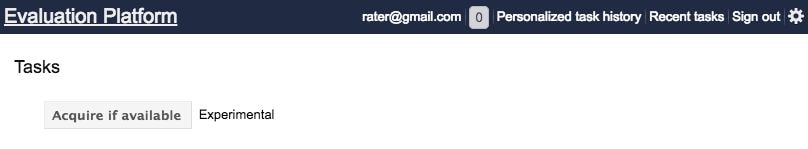
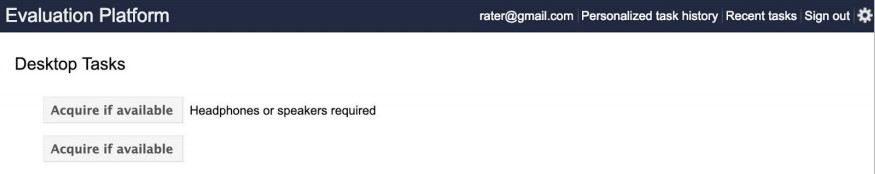
20190516 update

diff --git a/docs/needs-met-rating-guideline/17-specificity-of-queries-and-landing-pages.md b/docs/needs-met-rating-guideline/17-specificity-of-queries-and-landing-pages.md
@@ -14,26 +14,26 @@ Results for specific queries are easier to rate on the Needs Met scale because w
 
 When the query is a broad category, such as `cafes` `restaurants` `hotels` `books` `tourist attractions in paris` etc., popular and prominent examples may be considered very helpful. Please do web research to help you understand what is popular and prominent in different locations.
 
-Query and User Intent|Result Block and LP, Needs Met Rating, E-A-T Rating|Explanation
+Query and User Intent|Result Block and LP, Needs Met Rating, Page Quality Rating|Explanation
 ---|---|---
-**Query:** `credit cards`<br/><br/>**User Location:** Phoenix, Arizona<br/><br/>**User Intent:** Users are probably looking to sign up for a credit card online, or want to research credit cards before signing up.|![](../images/img655.jpg)<br/>![](../images/hm.jpg)![](../images/high+narrow.jpg)|Even though there are many options, a page for an individual company that offers different cards could be very helpful.<br/><br/>**E-A-T:** Visa is a well-known credit card company with a good reputation.<br/><br/>**Needs Met:** This LP is more specific than the query, but it would still be helpful for many or most users because Visa is a popular credit card company.^
-*(Same as above.)*|![](../images/img658.jpg)<br/>![](../images/hm.jpg)![](../images/high+narrow.jpg)|Even though there are many options, a page for an individual company that offers different cards could be very helpful.<br/><br/>**E-A-T:** Discover is a well-known company that offers services for credit cards, banking, and loans, and has a good reputation.<br/><br/>**Needs Met:** This LP is more specific than the query, but it would still be helpful for many or most users because Discover is a popular credit card company.
-*(Same as above.)*|![](../images/img661.jpg)<br/>![](../images/hm.jpg)![](../images/high.jpg)|This page offers a list of top credit cards in a variety of categories.<br/><br/>**E-A-T:** This website helps consumers make money decisions. It has a good reputation and has been recommended by CNNMoney and The New York Times.<br/><br/>**Needs Met:** This LP fits the query. It would be helpful for most users.
-*(Same as above.)*|![](../images/img664.jpg)<br/>![](../images/sm.jpg)![](../images/high.jpg)|This page describes a credit card that requires union membership.<br/><br/>**E-A-T:** This company is an expert on its own credit card, which is issued by HSBC Bank, a well-known financial services organization.<br/><br/>**Needs Met:** Since the credit card requires union membership, the page would be helpful for some users.
-**Query:** `hotels`<br/><br/>**User Location:** Jacksonville, Florida<br/><br/>**User Intent:** Users are probably planning a trip, but this query is very general and vague.|![](../images/img668.jpg)<br/>![](../images/hm.jpg)![](../images/high.jpg)|This is a popular travel aggregator website, and the hotel page on the site can help users find hotels in the U.S. Users can read reviews, compare hotels, or make a reservation.<br/><br/>**E-A-T:** Orbitz is a popular website with a good reputation.<br/><br/>**Needs Met:** This LP fits the query. It would be very helpful for most users.
-*(Same as above.)*|![](../images/img671.jpg)<br/>![](../images/hm.jpg)![](../images/high+narrow.jpg)|This is a very popular hotel chain with hotels available in the majority of the U.S. at many different price points.<br/><br/>Even though the list of possible hotel chains is long, the homepage of an individual chain that offers different prices, features, and location options could be very helpful.<br/><br/>**E-A-T:** The Marriott website gives information on Marriott hotels, a popular chain of hotels. Marriott is an expert on Marriott hotels and the information is highly authoritative.<br/><br/>**Needs Met:** This LP is more specific than the query, but it would still be helpful for many or most users because the Marriott is a popular chain of hotels.
-*(Same as above.)*|![](../images/img674.jpg)<br/>![](../images/failsm+narrow.jpg)![](../images/high+narrow.jpg)|This is the webpage of the Marriott Courtyard hotel in Emeryville, California.<br/><br/>**E-A-T:** The Marriott website gives information on Marriott hotels, a popular chain of hotels. This page is professional, well designed, and functions well. Marriott has a good reputation and is an expert on Marriott hotels, making the information on this page highly authoritative.<br/><br/>**Needs Met:** The LP is too specific for the query, but this is a well-known brand and users can navigate to other Marriott hotels from this page. Few users would find this page helpful.
+**Query:** `credit cards`<br/><br/>**User Location:** Phoenix, Arizona<br/><br/>**User Intent:** Users are probably looking to sign up for a credit card online, or want to research credit cards before signing up.|![](../images/img655.jpg)<br/>![](../images/hm.jpg)![](../images/high+narrow.jpg)|Even though there are many options, a page for an individual company that offers different cards could be very helpful.<br/><br/>**Page Quality:** Visa is a credit card company with high E-A-T that offers services for credit cards, banking, etc. and has a good reputation. **High+** to **Highest** is an appropriate rating.<br/><br/>**Needs Met:** This LP is more specific than the query, but it would still be helpful for many or most users because Visa is a popular credit card company.
+*(Same as above.)*|![](../images/img658.jpg)<br/>![](../images/hm.jpg)![](../images/high+narrow.jpg)|Even though there are many options, a page for an individual company that offers different cards could be very helpful.<br/><br/>**Page Quality:** Discover is a company with high E-A-T that offers services for credit cards, banking, etc. with a good reputation. **High+** to **Highest** is an appropriate rating.<br/><br/>**Needs Met:** This LP is more specific than the query, but it would still be helpful for many or most users because Discover is a popular credit card company.
+*(Same as above.)*|![](../images/img661.jpg)<br/>![](../images/hm.jpg)![](../images/high.jpg)|This page offers a list of top credit cards in a variety of categories.<br/><br/>**Page Quality:** This website helps consumers make money decisions. It has a good reputation, high E-A-T, and has been recommended by several major newspapers. **High** is an appropriate rating.<br/><br/>**Needs Met:** This LP fits the query. It would be helpful for most users.
+*(Same as above.)*|![](../images/img664.jpg)<br/>![](../images/sm.jpg)![](../images/high.jpg)|This page describes a credit card that requires union membership.<br/><br/>**Page Quality:** This company is an expert on its own credit card, which is issued by HSBC Bank, a financial services organization with a good reputation and high E-A-T. **High** is an appropriate rating.<br/><br/>**Needs Met:** Since the credit card requires union membership, the page would be helpful for some users.
+**Query:** `hotels`<br/><br/>**User Location:** Jacksonville, Florida<br/><br/>**User Intent:** Users are probably planning a trip, but this query is very general and vague.|![](../images/img668.jpg)<br/>![](../images/hm.jpg)![](../images/high.jpg)|This is a popular travel aggregator website, and the hotel page on the site can help users find hotels in the U.S. Users can read reviews, compare hotels, or make a reservation.<br/><br/>**Page Quality:** Orbitz is a popular website with high E-A-T and a good reputation. **High** is an appropriate rating.<br/><br/>**Needs Met:** This LP fits the query. It would be very helpful for most users.
+*(Same as above.)*|![](../images/img671.jpg)<br/>![](../images/hm.jpg)![](../images/high+narrow.jpg)|This is a very popular hotel chain with hotels available in the majority of the U.S. at many different price points.<br/><br/>Even though the list of possible hotel chains is long, the homepage of an individual chain that offers different prices, features, and location options could be very helpful.<br/><br/>**Page Quality:** The Marriott website gives information on Marriott hotels, a popular chain of hotels. Marriott has a good reputation and is an expert on Marriott hotels, making the information on this page highly authoritative. **High+** to **Highest** is an appropriate rating.<br/><br/>**Needs Met:** This LP is more specific than the query, but it would still be helpful for many or most users because the Marriott is a popular chain of hotels.
+*(Same as above.)*|![](../images/img674.jpg)<br/>![](../images/failsm+narrow.jpg)![](../images/high+narrow.jpg)|This is the webpage of the Marriott Courtyard hotel in Emeryville, California.<br/><br/>**Page Quality:** The Marriott website gives information on Marriott hotels, a popular chain of hotels. Marriott has a good reputation and is an expert on Marriott hotels, making the information on this page highly authoritative. **High+** to **Highest** is an appropriate rating.<br/><br/>**Needs Met:** The LP is too specific for the query, but this is a well-known brand and users can navigate to other Marriott hotels from this page. Few users would find this page helpful.
 **Query:** `target`<br/><br/>**User Location:** Jacksonville, Florida<br/><br/>**User Intent:** Go to target.com or find a nearby Target store.|![](../images/img678.jpg)<br/>![](../images/hm+.jpg)No E-A-T rating required|**Needs Met:** The result block shows three popular Target locations in Jacksonville, with information that is especially helpful for users who want to visit the store.
-*(Same as above.)*|![](../images/img680.jpg)<br/>![](../images/hm+.jpg)![](../images/high-narrow.jpg)|The LP is the Target website.<br/><br/>**E-A-T:** The Target website offers many different categories of products to buy online, as well as coupons, store information, and more topics that they are the experts on.<br/><br/>**Needs Met:** The result is very satisfying for mobile users that want to go to the website.
-*(Same as above.)*|![](../images/img683.jpg)<br/>![](../images/mm+narrow.jpg)![](../images/high-wide.jpg)|The LP is the "store locator" page on the Target website.<br/><br/>**E-A-T:** Target is the expert about where its stores are located. This page is the most authoritative page on this topic.<br/><br/>**Needs Met:** The LP is more specific than the query, but many or most users would be interested in this page.
-*(Same as above.)*|![](../images/img686.jpg)<br/>![](../images/mm+narrow.jpg)![](../images/high-narrow.jpg)|The LP is the "electronics" page on the Target website.<br/><br/>**E-A-T:** Target has a good reputation, but is not an expert or authority on much of what it sells.<br/><br/>**Needs Met:** The LP is more specific than the query, but many or most users would be interested in this page.
+*(Same as above.)*|![](../images/img680.jpg)<br/>![](../images/hm+.jpg)![](../images/high-narrow.jpg)|The LP is the Target website.<br/><br/>**Page Quality:**  Target is a popular shopping website in the U.S. with high E-A-T and is trusted by users for online purchases. **High** to **High+** is an appropriate rating.<br/><br/>**Needs Met:** The result is very satisfying for mobile users that want to go to the website.
+*(Same as above.)*|![](../images/img683.jpg)<br/>![](../images/mm+narrow.jpg)![](../images/high-wide.jpg)|The LP is the "store locator" page on the Target website.<br/><br/>**Page Quality:** Target is the expert about where its stores are located. This page is the most authoritative page on this topic. **High** to **Highest** is an appropriate rating.<br/><br/>**Needs Met:** The LP is more specific than the query, but many or most users would be interested in this page.
+*(Same as above.)*|![](../images/img686.jpg)<br/>![](../images/mm+narrow.jpg)![](../images/high-narrow.jpg)|The LP is the "electronics" page on the Target website.<br/><br/>**Page Quality:**  Target is a popular shopping website in the U.S. with high E-A-T and is trusted by users for online purchases. **High** to **High+** is an appropriate rating.<br/><br/>**Needs Met:** The LP is more specific than the query, but many or most users would be interested in this page.
 *(Same as above.)*|![](../images/img690.jpg)<br/>![](../images/sm-narrow.jpg)No E-A-T rating required|**Needs Met:** While this result block has some helpful content, most people searching for Target are not looking for the stock price or the names of the CEO and Founder. A rating of **Slightly Meets** to **Slightly Meets+** is appropriate.
-*(Same as above.)*|![](../images/img692.jpg)<br/>![](../images/mm.jpg)![](../images/high-narrow.jpg)|The LP on the Target website is for a specific type of women’s pants.<br/><br/>**E-A-T:** Target has a good reputation, but is not an expert or authority on much of what it sells.<br/><br/>**Needs Met:** The LP is much more specific than the query and would be helpful for very few users.
-**Query:** `chicken recipes`<br/><br/>**User Location:** Austin, Texas<br/><br/>**User Intent:** Users probably want to make a chicken dish and are looking for some recipes to choose from. Users probably expect and want a list of recipes.|![](../images/img696.jpg)<br/>![](../images/hm.jpg)![](../images/high+narrow.jpg)|This LP has many chicken recipes (with reviews) on a popular recipe website.<br/><br/>**E-A-T:** Food Network is a popular website with a good reputation for providing high quality recipes and cooking information.<br/><br/>**Needs Met:** This LP fits the query. It would be very helpful for most users.
-*(Same as above.)*|![](../images/img699.jpg)<br/>![](../images/sm-wide.jpg)![](../images/high+narrow.jpg)|This LP has a single recipe for chicken parmesan.<br/><br/>**E-A-T:** Food Network is a popular website with a good reputation for providing high quality recipes and cooking information.<br/><br/>**Needs Met:** This is a popular type of chicken recipe on a popular website, but the LP is more specific than the query. Some or few users would find this page helpful.
-*(Same as above.)*|![](../images/img702.jpg)<br/>![](../images/sm-wide.jpg)![](../images/high+narrow.jpg)|This LP has over 25 recipes for fried chicken, a popular chicken dish.<br/><br/>**E-A-T:** Allrecipes.com is a popular website with a good reputation for providing high quality recipes with lots of reviews.<br/><br/>**Needs Met:** Even though there are over 25 different recipes on the LP, they are all for the same basic dish. Therefore, this LP is also more specific than the query. Some or few users would find this page helpful.
-*(Same as above.)*|![](../images/img705.jpg)<br/>![](../images/failsm.jpg)![](../images/lowest.jpg)|This is a fake search page for chicken recipes.<br/><br/>**E-A-T:** Ads should never disguise themselves as the MC of the page. Pages with Ads that are designed to look like MC should be considered deceptive, making this fake search untrustworthy.<br/><br/>**Needs Met:** It should be rated **FailsM** as it would be helpful for no users.
-**Query:** `smithsonian air and space museum store`<br/><br/>**User Location:** Washington, DC<br/><br/>**User Intent:** Go to the store website or find information, such as opening hours, about the museum’s store in Washington, DC.|![](../images/img709.jpg)<br/>![](../images/hm+.jpg)![](../images/high+narrow.jpg)|This LP is the official website for the museum store.<br/><br/>**E-A-T:** The museum is the expert on information about the store, including hours, phone numbers, membership information, etc.<br/><br/>**Needs Met:** The result is very satisfying for mobile users that want to go to the website.
+*(Same as above.)*|![](../images/img692.jpg)<br/>![](../images/sm.jpg)![](../images/high-narrow.jpg)|The LP on the Target website is for a specific type of women’s pants.<br/><br/>**Page Quality:**  Target is a popular shopping website in the U.S. with high E-A-T and is trusted by users for online purchases. **High** to **High+** is an appropriate rating.<br/><br/>**Needs Met:** The LP is much more specific than the query and would be helpful for very few users.
+**Query:** `chicken recipes`<br/><br/>**User Location:** Austin, Texas<br/><br/>**User Intent:** Users probably want to make a chicken dish and are looking for some recipes to choose from. Users probably expect and want a list of recipes.|![](../images/img696.jpg)<br/>![](../images/hm.jpg)![](../images/high+narrow.jpg)|This LP has many chicken recipes (with reviews) on a popular recipe website.<br/><br/>**Page Quality:**  Food Network is a popular website with high E-A-T and a good reputation for providing high quality recipes and cooking information. **High+** to **Highest** is an appropriate rating.<br/><br/>**Needs Met:** This LP fits the query. It would be very helpful for most users.
+*(Same as above.)*|![](../images/img699.jpg)<br/>![](../images/sm-wide.jpg)![](../images/high+narrow.jpg)|This LP has a single recipe for chicken parmesan.<br/><br/>**Page Quality:**  Food Network is a popular website with high E-A-T and a good reputation for providing high quality recipes and cooking information. **High+** to **Highest** is an appropriate rating.<br/><br/>**Needs Met:** This is a popular type of chicken recipe on a popular website, but the LP is more specific than the query. Some or few users would find this page helpful.
+*(Same as above.)*|![](../images/img702.jpg)<br/>![](../images/sm-wide.jpg)![](../images/high+narrow.jpg)|This LP has over 25 recipes for fried chicken, a popular chicken dish.<br/><br/>**Page Quality:**  Allrecipes.com is a popular website with high E-A-T and a good reputation for providing high quality recipes with lots of reviews. **High+** to **Highest** is an appropriate rating.<br/><br/>**Needs Met:** Even though there are over 25 different recipes on the LP, they are all for the same basic dish. Therefore, this LP is also more specific than the query. Some or few users would find this page helpful.
+*(Same as above.)*|![](../images/img705.jpg)<br/>![](../images/failsm.jpg)![](../images/lowest.jpg)|This is a fake search page for chicken recipes.<br/><br/>**Page Quality:** Ads should never disguise themselves as the MC of the page. Pages with Ads that are designed to look like MC do not have a beneficial purpose. Since this page deceives users, it should receive the **Lowest** rating.<br/><br/>**Needs Met:** It should be rated **FailsM** as it would be helpful for no users.
+**Query:** `smithsonian air and space museum store`<br/><br/>**User Location:** Washington, DC<br/><br/>**User Intent:** Go to the store website or find information, such as opening hours, about the museum’s store in Washington, DC.|![](../images/img709.jpg)<br/>![](../images/hm+.jpg)![](../images/high+narrow.jpg)|This LP is the official website for the museum store.<br/><br/>**Page Quality:**  This is the website of a popular museum store with a good reputation and high E-A-T. The museum is the expert on information about the store, including hours, phone numbers, membership information, etc. **High+** to **Highest** is an appropriate rating.<br/><br/>**Needs Met:** The result is very satisfying for mobile users that want to go to the website.
 *(Same as above.)*|![](../images/img712.jpg)<br/>![](../images/mm+narrow.jpg)No E-A-T rating required|**Needs Met:** While the result is about the museum, the hours, address, and directions are the same as the museum store. This information is helpful for users searching for the store.
-*(Same as above.)*|![](../images/img714.jpg)<br/>![](../images/sm.jpg)![](../images/high+narrow.jpg)|This LP has information about how to volunteer at the museum.<br/><br/>**E-A-T:** The museum is the expert on their own volunteer opportunities. This page is the most authoritative page on this topic.<br/><br/>**Needs Met:** The LP is more specific than the query and would be helpful for few users.
+*(Same as above.)*|![](../images/img714.jpg)<br/>![](../images/sm.jpg)![](../images/high+narrow.jpg)|This LP has information about how to volunteer at the museum.<br/><br/>**Page Quality:** This is the volunteer page for a popular museum with a good reputation and high E-A-T. The museum is the expert on their own volunteer opportunities. **High+** to **Highest** is an appropriate rating.<br/><br/>**Needs Met:** The LP is more specific than the query and would be helpful for few users.
 *(Same as above.)*|![](../images/img717.jpg)<br/>![](../images/failsm.jpg)No E-A-T rating required|**Needs Met:** This is not the museum requested in the query so the result **Fails to Meet** the user intent.

diff --git a/docs/needs-met-rating-guideline/15-the-relationship-between-e-a-t-and-needs-met.md b/docs/needs-met-rating-guideline/15-the-relationship-between-e-a-t-and-needs-met.md
@@ -16,17 +16,17 @@ Here is some guidance about assigning Needs Met and E-A-T ratings:
 
 - On-topic, helpful, but low E-A-T results should get lower Needs Met ratings than on-topic, helpful, and high E-A-T results. The Needs Met scale encompasses all aspects of "helpfulness," and many users find low E-A-T results less helpful than high E-A-T results. Your ratings should reflect this.
 
-- The **HM** rating should be given to helpful, high E-A-T pages that are a good fit for the query. The **HM** rating may also be used for results that are very helpful, medium quality, and have other very desirable characteristics, such as very recent information.
+- The **HM** rating should be given to helpful, high Page Quality pages that are a good fit for the query. The **HM** rating may also be used for results that are very helpful, medium quality, and have other very desirable characteristics, such as very recent information.
 
-- Do not use the **HM** rating if a page has low E-A-T or has any other undesirable characteristic, such as outdated or inaccurate information, or if it is a poor fit for the query. We have very high standards for the **HM** rating.
+- The **HM** rating may not be appropriate if a page has low Page Quality or has any other undesirable characteristic, such as outdated or inaccurate information, or if it is a poor fit for the query. We have very high standards for the **HM** rating.
 
-- **SM** is often an appropriate rating for low quality but on-topic pages. However, a page can have such low E-A-T that it is useless for nearly all queries. Gibberish pages are a good example of pages with low E-A-T that should be rated **FailsM**. An exception to this is queries with clear website intent, where the target website should be rated **FullyM** even if the page has low E-A-T.
+- SM is often an appropriate rating for low quality but on-topic pages. However, a page can have such low Page Quality that it is useless for nearly all queries. Gibberish pages are a good example of pages with low Page Quality that should be rated FailsM. An exception to this is queries with clear website intent, where the target website should be rated FullyM even if the page has low Page Quality.
 
-- Harmful, inaccurate, misleading, deceptive, or malicious result blocks should be rated **Lowest** E-A-T. Highly authoritative, expert, and the most trustworthy result blocks should be rated **Highest** E-A-T. Result blocks with "average" or "nothing special" expertise, authoritativeness, or trustworthiness should be rated **Medium** E-A-T.
+- Remember that if a page lacks a beneficial purpose, it should always be rated Lowest Page Quality  regardless of the page’s Needs Met rating or how well-designed the page may be. Please review [Section 7.0](../page-quality-rating-guideline/7-lowest-quality-pages) for a summary of other types of Lowest Page Quality pages.
 
 Query and User Intent|Result Block and LP, Needs Met Rating, E-A-T Rating|Explanation
 ---|---|---
-**Query:** [how do electric cars work]<br/><br/>**User Location:** Dallas, Texas<br/><br/>**User Intent:** Find information about how electric cars work.|![](../images/img628.jpg)<br/>![](../images/sm.jpg)![](../images/low.jpg)|**E-A-T:** Read this content out loud. The article on the LP is shallow and unintentionally humorous. There are four paragraphs of text, but it basically says that electric cars use electricity and have to be charged.<br/><br/>**Needs Met:** This page would be helpful for few users.^
-*(Same as above.)*|![](../images/img631.jpg)<br/>![](../images/failsm.jpg)![](../images/medium+narrow.jpg)|**E-A-T:** There is a lot of helpful MC on the landing page on Wikipedia.org.<br/><br/>**Needs Met:** The query asks how electric cars work, but the article on the LP is about mobility scooters.
-**Query:** [symptoms of dehydration]<br/><br/>**User Location:** Memphis, Tennessee<br/><br/>**User Intent:** Find information about the symptoms of dehydration.|![](../images/img634.jpg)<br/>![](../images/failsm-narrow.jpg)![](../images/lowest-narrow.jpg)|**E-A-T:** This is a YMYL topic. The page has many characteristics of a low quality site: no contact information, no indication of who wrote the content, no evidence of medical expertise/authority, and heavy monetization from Ads that distract from the MC. Therefore, this page is not trustworthy.<br/><br/>**Needs Met:** Even though the article is topical, the information is not reliable and potentially misleading or dangerous.
-*(Same as above.)*|![](../images/img637.jpg)<br/>![](../images/hm.jpg)![](../images/high+narrow.jpg)|**E-A-T:** This is a YMYL topic. This page is on a highly authoritative medical website and has a lot of reliable and accurate MC. This page is very trustworthy.<br/><br/>**Needs Met:** This result would be very helpful for most users.
+**Query:** [how do electric cars work]<br/><br/>**User Location:** Dallas, Texas<br/><br/>**User Intent:** Find information about how electric cars work.|![](../images/img628.jpg)<br/>![](../images/sm.jpg)![](../images/low.jpg)|**Page Quality:** Read this content out loud. The article on the LP is shallow and unintentionally humorous. There are four paragraphs of text, but it basically says that electric cars use electricity and have to be charged.<br/><br/>**Needs Met:** This page would be helpful for few users.
+*(Same as above.)*|![](../images/img631.jpg)<br/>![](../images/failsm.jpg)![](../images/medium+narrow.jpg)|**Page Quality:** There is a lot of helpful MC on the landing page on Wikipedia.org.<br/><br/>**Needs Met:** The query asks how electric cars work, but the article on the LP is about mobility scooters.
+**Query:** [symptoms of dehydration]<br/><br/>**User Location:** Memphis, Tennessee<br/><br/>**User Intent:** Find information about the symptoms of dehydration.|![](../images/img634.jpg)<br/>![](../images/failsm-narrow.jpg)![](../images/lowest-narrow.jpg)|**Page Quality:** This is a YMYL topic. This page has no evidence of medical expertise/authority and is not trustworthy.<br/><br/>**Needs Met:** Even though the article is topical, the information is not reliable and potentially misleading or dangerous.
+*(Same as above.)*|![](../images/img637.jpg)<br/>![](../images/hm.jpg)![](../images/high+narrow.jpg)|**Page Quality:** This is a YMYL topic. This page is on a highly authoritative medical website and has a lot of reliable and accurate MC. This page is very trustworthy.<br/><br/>**Needs Met:** This result would be very helpful for most users.

diff --git a/docs/page-quality-rating-guideline/11-page-quality-rating-faqs.md b/docs/page-quality-rating-guideline/11-page-quality-rating-faqs.md
@@ -4,7 +4,7 @@ Question|Answer
 ---|---
 **Why do we have to do all these steps? This takes a long time!**|With practice, the amount of time needed for accurate PQ ratings will decrease. The steps are important and are designed to help you assess many different aspects of PQ. You may be surprised by what you find. Pages that initially look Low quality may turn out to be Medium or High quality with careful inspection. The reverse may happen as well. We want your most informed, thoughtful opinion.
 **Are we just giving High quality ratings to pages that "look" good?**|No! The goal is to do the exact opposite. These steps are designed to help you analyze the page without using a superficial "does it look good?" approach.
-**You talked about expertise when rating MC. Does expertise matter for all topics? Aren't there some topics for which there are no experts?**|Remember that we are not just talking about formal expertise. High quality pages involve time, effort, expertise, and talent/skill. Sharing personal experience is a form of everyday expertise.<br/><br/>Pretty much any topic has some form of expert, but E-A-T is especially important for YMYL pages.<br/><br/>For most page purposes and topics, you can find experts even when the field itself is niche or non-mainstream. For example, there are expert alternative medicine websites with leading practitioners of acupuncture, herbal therapies, etc. There are also pages about alternative medicine written by people with no expertise or experience. E-A-T should distinguish between these two scenarios.<br/><br/>One final note: if the purpose of the page is harmful, then expertise doesn't matter. It should be rated **Lowest**!
+**You talked about expertise when rating MC. Does expertise matter for all topics? Aren't there some topics for which there are no experts?**|Remember that we are not just talking about formal expertise. High quality pages involve time, effort, expertise, and talent/skill. Sharing personal experience is a form of everyday expertise.<br/><br/>Specifically for content creators, everyday expertise can be assessed based on the talent/skill level depicted in the MC (e.g., great hairstyling advice, painting/crafting abilities, skillful home/DIY work, etc.). In cases where the content creator is not demonstrating formal or everyday expertise but is not doing any harm, Medium is an appropriate rating.<br/><br/>Pretty much any topic has some form of expert, but E-A-T is especially important for YMYL pages.<br/><br/>For most page purposes and topics, you can find experts even when the field itself is niche or non-mainstream. For example, there are expert alternative medicine websites with leading practitioners of acupuncture, herbal therapies, etc. There are also pages about alternative medicine written by people with no expertise or experience. E-A-T should distinguish between these two scenarios.<br/><br/>One final note: if the purpose of the page is harmful, then expertise doesn't matter. It should be rated **Lowest**!
 **Aren't there some types of pages or topics, such as celebrity gossip, that always have Low quality content?**|For almost any type of page or informational topic, there is a range of content quality. Remember that high quality content is defined as content that takes time, effort, expertise, and talent/skill. Pages that have a harmful purpose should be rated **Lowest** quality, regardless of their topic.<br/><br/>For example, there are both High and Low quality celebrity gossip pages. Often, the purpose of these pages is to share scandalous, but potentially true personal information about celebrities. We can consider the MC of a gossip page to be high quality if it is accurate and interesting information from a reliable source. On the other hand, demonstrably inaccurate information and unsubstantiated conspiracy theories, etc., should be rated **Lowest**.
 **I've never seen a High quality page of type X. If there are no high quality pages of this type, why are we giving existing pages a Low quality rating?**|For some topics or types of pages, there may not be many (or any!) High quality pages now, but there may be in the future. We need a uniform set of standards that apply to all pages, even for pages that have not yet been created.
 **Some of these criteria seem unfair. For example, some art pages do not have a purpose. Are these pages Low quality?**|Art pages do have a purpose: artistic expression. Pages created for artistic expression do not deserve the Low quality rating simply because they have no other purpose. Artistic expression, humor, entertainment, sharing photos and videos, etc. are all valid and valued page purposes.

diff --git a/docs/needs-met-rating-guideline/18-needs-met-rating-and-freshness.md b/docs/needs-met-rating-guideline/18-needs-met-rating-and-freshness.md
@@ -13,11 +13,11 @@ When a query demands recent content, only pages with current, recent, or updated
 
 For some queries, there may be "newsy" or recent information user intent, as well as more "timeless" information user intent. Users issuing queries for celebrities or politicians may be interested in biographical information, or users may be looking for the latest news or gossip.
 
-Freshness is generally less of a concern for E-A-T rating. "Stale" pages can have high E-A-T ratings. For example, some highly reputable news websites maintain "archival" content. However, unmaintained/abandoned "old" websites or unmaintained and inaccurate/misleading content is a reason for a low E-A-T rating.
+Freshness is generally less of a concern for Page Quality rating. "Stale" pages can have high Page Quality ratings. For example, some highly reputable news websites maintain "archival" content. However, unmaintained/abandoned "old" websites or unmaintained and inaccurate/misleading content is a reason for a low Page Quality rating.
 
 **Note:** The date the page was created may be different from when the content was last updated or modified. When content is updated, the page will sometimes show the date of the update, not the date the page was created. Some websites always show the current date, regardless of when the content was last updated. If you are curious about the content of a page, see [here](http://archive.org/web/web.php) to try the "Wayback Machine" on the Internet Archive. Not all pages are available, but this tool may help you understand how some pages were created and how their content has changed over time.
 
-Query and User Intent|Result Block and LP, Needs Met Rating, E-A-T Rating|Explanation
+Query and User Intent|Result Block and LP, Needs Met Rating, Page Quality Rating|Explanation
 ---|---|---
 **Query:** `nasa mars landing`<br/><br/>**User Location:** San Francisco, California<br/><br/>**User Intent:** On the date this example was written, NASA had just landed the "Curiosity" rover on Mars. Most users are probably looking for breaking news and pictures about the event.|![](../images/img721.jpg)<br/>![](../images/hm.jpg)![](../images/high-narrow.jpg)|This LP has an article about the "Curiosity" rover landing, published on the same day as the landing, which is the day this example was written.
 *(Same as above.)*|![](../images/img724.jpg)<br/>![](../images/failsm-narrow.jpg)![](../images/high-narrow.jpg)|This LP has an article about the launching of the "Curiosity" rover, published nine months before its landing on Mars. The content on this page would be considered stale for the query.

diff --git a/docs/page-quality-rating-guideline/6-low-quality-pages.md b/docs/page-quality-rating-guideline/6-low-quality-pages.md
@@ -46,7 +46,7 @@ Some **Low** quality pages are unsatisfying because they have a small amount of 
 
 We expect Ads and SC to be visible. However, some Ads, SC, or [interstitial pages]() (i.e., pages displayed before or after the content you are expecting) make it difficult to use the MC. Pages with Ads, SC, or other features that distract from or interrupt the use of the MC should be given a **Low** rating.
 
-A single pop-over Ad with a clear and easy-to-use close button is not terribly distracting, though may not be a great user experience. However, difficult-to-close Ads that follow page scrolls can be truly distracting and make the MC difficult to use.
+A single pop-over Ad or interstitial page with a clear and easy to use close button is not terribly distracting, though may not be a great user experience. However, difficult to close Ads that follow page scrolls, or interstitial pages that require an app download, can be truly distracting and make the MC difficult to use. You can see examples of interstitial pages here.
 
 The content of the Ads, SC, or other features may be distracting as well: sexually suggestive images such as [here](), grotesque images such as [here](), and porn Ads on non-porn pages should be considered very distracting.
 

diff --git a/docs/appendix-using-the-evaluation-platform/24-overview.md b/docs/appendix-using-the-evaluation-platform/24-overview.md
@@ -2,6 +2,6 @@
 
 The Evaluation Platform is the system you will use to acquire and rate tasks. You can access the Evaluation Platform by going to this link: [http://www.raterhub.com/evaluation/rater](http://www.raterhub.com/evaluation/rater)
 
-As a Search Quality Evaluator, you will work on many different types of rating tasks. This section provides guidance on how to use certain features of the Evaluation Platform that you will encounter frequently in Page Quality (PQ) and Needs Met (NM) rating tasks. Some of these concepts may apply to other types of rating tasks as well.
+As a Search Quality Rater, you will work on many different types of rating tasks. This section provides guidance on how to use certain features of the Evaluation Platform that you will encounter frequently in Page Quality (PQ) and Needs Met (NM) rating tasks. Some of these concepts may apply to other types of rating tasks as well.
 
 **Important:** Many tasks that you receive will display project-specific instructions on the task page. You should always follow these project-specific instructions when they are provided.

diff --git a/docs/appendix-using-the-evaluation-platform/25-acquiring-tasks.md b/docs/appendix-using-the-evaluation-platform/25-acquiring-tasks.md
@@ -10,6 +10,6 @@ A few notes about how to acquire tasks from this page:
 
 - **Acquire if available:** Click this button to acquire a new task.
 
-- **Experimental:** This text indicates that there is an Experimental task available.
+- **Headphones or speakers required:** This label indicates that the task requires headphones or speakers (for example, to listen to an audio file).
 
-  Please note there are other types of rating tasks (e.g., Result Review, Side-by-Side). Sometimes there will be only one task type available, but other times you may see more than one type displayed. When there is more than one type displayed, you may choose the type you want to acquire.
+  Please note you may see other types of labels next to the button on the task acquisition page. Sometimes there will be only one button, while other times you may see more than one button displayed to distinguish tasks with different requirements. When there is more than one displayed, you may choose the one you want to acquire.

diff --git a/docs/general-guidelines-overview/index.md b/docs/general-guidelines-overview/index.md
@@ -2,9 +2,9 @@
 
 **Welcome to the Search Quality Rating Program!**
 
-As a Search Quality evaluator, you will work on many different types of rating projects. The General Guidelines primarily cover Page Quality (PQ) rating and Needs Met (NM) rating; however, the concepts are also important for many other types of rating tasks.
+As a Search Quality Rater, you will work on many different types of rating projects. The General Guidelines primarily cover Page Quality (PQ) rating and Needs Met (NM) rating; however, the concepts are also important for many other types of rating tasks.
 
-For brevity, we refer to "Search Quality Evaluators" as "raters" in these guidelines.
+For brevity, we refer to "Search Quality Raters" as "raters" in these guidelines.
 
 ![Should I buy an iPhone?](../images/img6.jpg)
 ![Is this page trustworthy?](../images/img8.jpg)
